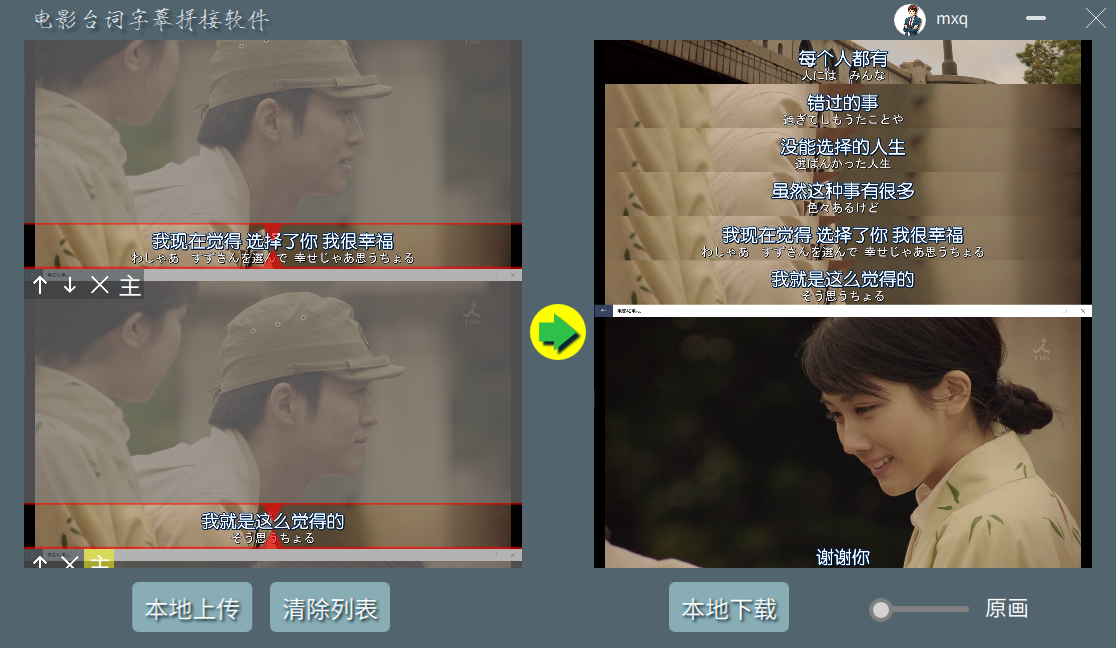
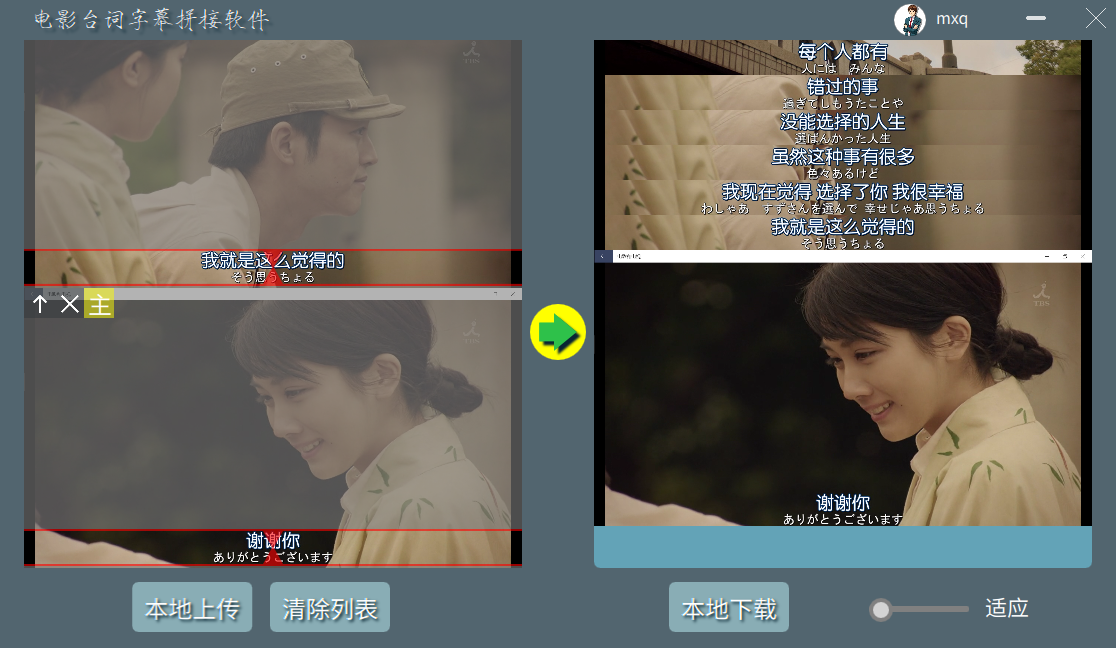
修改了滑动条的标题

diff --git a/basecom/Scaleslider.qml b/basecom/Scaleslider.qml
@@ -2,7 +2,7 @@ import QtQuick 2.0
 import QtQuick.Controls 1.4
 import QtQuick.Controls.Styles 1.4
 Item {
-    property string promptstr: "原画"
+    property string promptstr: "适应"
     Slider {
         anchors.leftMargin: 5
         maximumValue: 2
